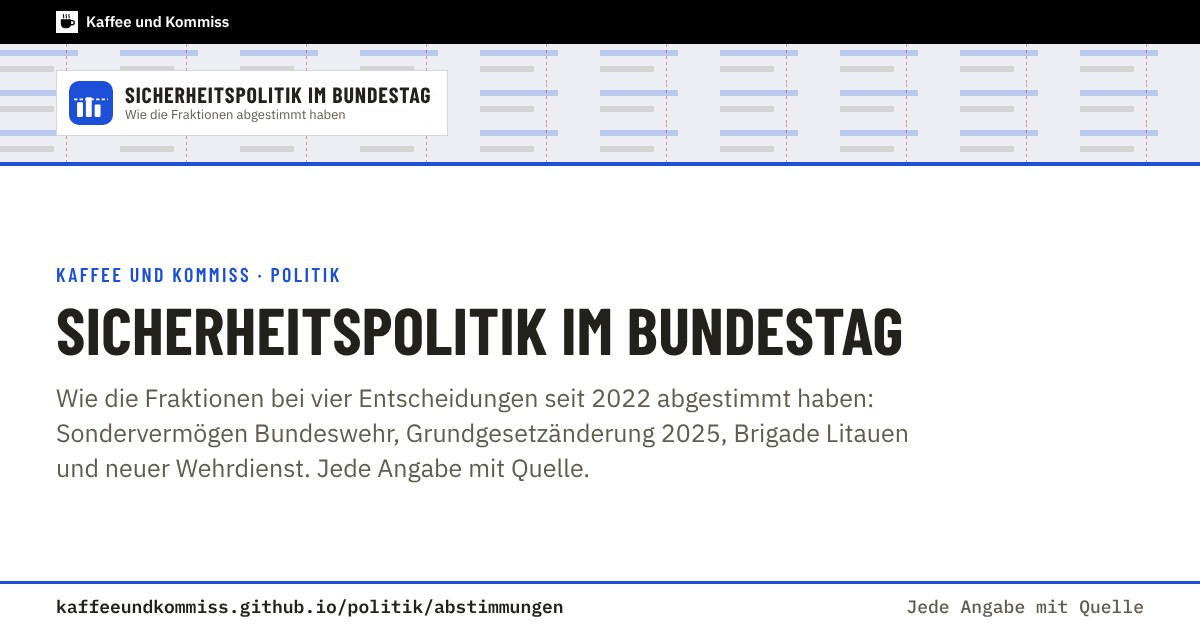
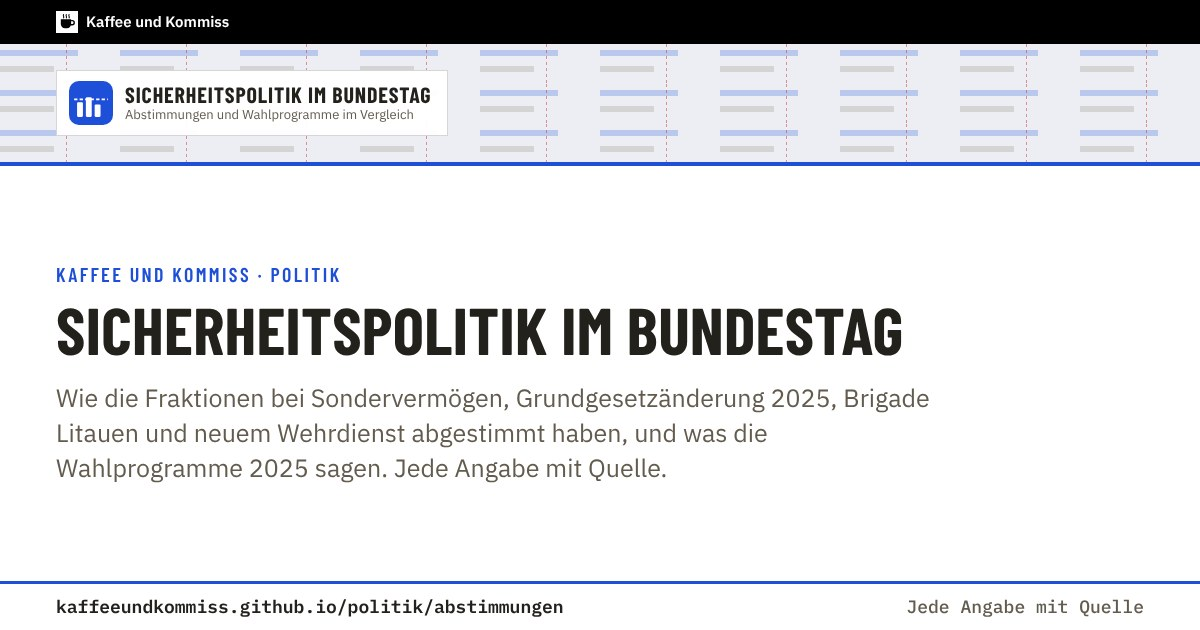
Politik: Wahlprogramme 2025 im Wortlaut auf der Seite Sicherheitspolitik im Bundestag
Abschnitt #programme mit wörtlichen Auszügen aus den Programmen von
CDU/CSU, AfD, SPD, Grünen, Linke und FDP zu Wehrpflicht,
Verteidigungsausgaben und NATO, je mit Abgleich (tagesschau, Dlf, LpB BW
u. a.), Kasten zu Entwicklungen seit der Wahl, Quellen q21-q35.
Parteienreihenfolge der Übersicht nach Zweitstimmen 2025.

Claude-Session: https://claude.ai/code/session_01AuP7hHuBsEzNoN93syrafp

Changed region(s): [[0.0308, 0.6032, 0.7708, 0.7841], [0.0925, 0.1508, 0.2775, 0.2111], [0.3083, 0.181, 0.3392, 0.2111]]

diff --git a/politik/abstimmungen/index.html b/politik/abstimmungen/index.html
@@ -4,21 +4,21 @@
 <meta charset="utf-8">
 <meta name="viewport" content="width=device-width, initial-scale=1">
 <title>Sicherheitspolitik im Bundestag · Kaffee und Kommiss</title>
-<meta name="description" content="Wie die Fraktionen im Bundestag bei vier sicherheitspolitischen Entscheidungen seit 2022 abgestimmt haben: Sondervermögen Bundeswehr, Grundgesetzänderung 2025, Brigade Litauen und neuer Wehrdienst. Jede Angabe mit Quelle.">
+<meta name="description" content="Wie die Fraktionen im Bundestag bei vier sicherheitspolitischen Entscheidungen seit 2022 abgestimmt haben: Sondervermögen Bundeswehr, Grundgesetzänderung 2025, Brigade Litauen und neuer Wehrdienst; dazu die Wahlprogramme 2025 im Wortlaut. Jede Angabe mit Quelle.">
 <link rel="canonical" href="https://kaffeeundkommiss.github.io/politik/abstimmungen/">
 <meta property="og:type" content="website">
 <meta property="og:locale" content="de_DE">
 <meta property="og:site_name" content="Kaffee und Kommiss">
 <meta property="og:title" content="Sicherheitspolitik im Bundestag · Kaffee und Kommiss">
-<meta property="og:description" content="Wie die Fraktionen bei vier sicherheitspolitischen Entscheidungen seit 2022 abgestimmt haben, jede Angabe mit Quelle.">
+<meta property="og:description" content="Wie die Fraktionen bei vier sicherheitspolitischen Entscheidungen seit 2022 abgestimmt haben und was die Wahlprogramme 2025 sagen, jede Angabe mit Quelle.">
 <meta property="og:url" content="https://kaffeeundkommiss.github.io/politik/abstimmungen/">
 <!-- Vorschau für Linkvorschauen, erzeugt mit werkzeuge/vorschau.js -->
-<meta property="og:image" content="https://kaffeeundkommiss.github.io/vorschau/abstimmungen.jpg?v=945861f0">
+<meta property="og:image" content="https://kaffeeundkommiss.github.io/vorschau/abstimmungen.jpg?v=cbaee471">
 <meta property="og:image:width" content="1200">
 <meta property="og:image:height" content="630">
 <meta property="og:image:alt" content="Sicherheitspolitik im Bundestag: Kaffee und Kommiss">
 <meta name="twitter:card" content="summary_large_image">
-<meta name="twitter:image" content="https://kaffeeundkommiss.github.io/vorschau/abstimmungen.jpg?v=945861f0">
+<meta name="twitter:image" content="https://kaffeeundkommiss.github.io/vorschau/abstimmungen.jpg?v=cbaee471">
 <link rel="icon" href="../../icons/politik.svg" type="image/svg+xml">
 <link rel="icon" href="../../favicon-32.png" type="image/png" sizes="32x32">
 <link rel="apple-touch-icon" sizes="180x180" href="../../apple-touch-icon.png?v=2">
@@ -43,7 +43,7 @@
       <img class="logo" src="../../icons/politik.svg" alt="" width="44" height="44">
       <div>
         <div class="kk-name">Sicherheitspolitik im Bundestag</div>
-        <div class="kk-unter">Wie die Fraktionen abgestimmt haben</div>
+        <div class="kk-unter">Abstimmungen und Wahlprogramme im Vergleich</div>
       </div>
     </a>
   </div>
@@ -52,7 +52,7 @@
 <main>
   <div class="kicker">Bereich Politik · Bundestag seit 2022</div>
   <h1>Wie haben die Fraktionen abgestimmt?</h1>
-  <p class="lead">Vier Entscheidungen des Bundestages zur Sicherheitspolitik seit 2022 und wie die Fraktionen und Gruppen dabei gestimmt haben. Die Seite zeigt, wie abgestimmt wurde, nicht warum. Die Begründungen stehen in den Reden, die in den Plenarprotokollen des Bundestages veröffentlicht sind.</p>
+  <p class="lead">Vier Entscheidungen des Bundestages zur Sicherheitspolitik seit 2022 und wie die Fraktionen und Gruppen dabei gestimmt haben. Danach: was die Parteien in ihren Wahlprogrammen 2025 zu Wehrpflicht, Verteidigungsausgaben und NATO schreiben, im Wortlaut. Die Seite zeigt Abstimmungen und Programmtexte, sie bewertet sie nicht.</p>
 
   <nav class="inhalt" aria-label="Inhalt dieser Seite">
     <a href="#uebersicht">Übersicht</a>
@@ -61,6 +61,7 @@
     <a href="#litauen">Litauen 2025</a>
     <a href="#wehrdienst">Wehrdienst 2025</a>
     <a href="#lesen">So ist die Tabelle zu lesen</a>
+    <a href="#programme">Wahlprogramme 2025</a>
     <a href="#quellen">Quellen</a>
   </nav>
 
@@ -68,12 +69,12 @@
   <p class="legende">Angegeben ist, wie die Mehrheit einer Fraktion oder Gruppe gestimmt hat. Einzelne Abweichungen stehen unten bei der jeweiligen Entscheidung. „—“ heißt: nicht im Bundestag vertreten oder damals noch nicht gegründet.</p>
   <div class="tab">
   <table class="matrix">
-    <thead><tr><th scope="col">Entscheidung</th><th scope="col">CDU/CSU</th><th scope="col">SPD</th><th scope="col">Grüne</th><th scope="col">FDP</th><th scope="col">AfD</th><th scope="col">Linke</th><th scope="col">BSW</th></tr></thead>
+    <thead><tr><th scope="col">Entscheidung</th><th scope="col">CDU/CSU</th><th scope="col">AfD</th><th scope="col">SPD</th><th scope="col">Grüne</th><th scope="col">Linke</th><th scope="col">FDP</th><th scope="col">BSW</th></tr></thead>
     <tbody>
-      <tr><th scope="row"><a href="#gg2022">03.06.2022 · Grundgesetz Art. 87a, Sondervermögen Bundeswehr</a></th><td class="v">Ja</td><td class="v">Ja</td><td class="v">Ja</td><td class="v">Ja</td><td class="v">geteilt</td><td class="v">Nein</td><td class="v nicht">—</td></tr>
-      <tr><th scope="row"><a href="#gg2025">18.03.2025 · Grundgesetzänderung, Verteidigungsausgaben und Schuldenbremse</a></th><td class="v">Ja</td><td class="v">Ja</td><td class="v">Ja</td><td class="v">Nein</td><td class="v">Nein</td><td class="v">Nein</td><td class="v">Nein</td></tr>
-      <tr><th scope="row"><a href="#litauen">31.01.2025 · Abkommen mit Litauen, Stationierung der Brigade</a></th><td class="v">Ja</td><td class="v">Ja</td><td class="v">Ja</td><td class="v">Ja</td><td class="v">Enth.</td><td class="v">Nein</td><td class="v">Nein</td></tr>
-      <tr><th scope="row"><a href="#wehrdienst">05.12.2025 · Wehrdienst-Modernisierungsgesetz</a></th><td class="v">Ja</td><td class="v">Ja</td><td class="v">Nein</td><td class="v nicht">—</td><td class="v">Nein</td><td class="v">Nein</td><td class="v nicht">—</td></tr>
+      <tr><th scope="row"><a href="#gg2022">03.06.2022 · Grundgesetz Art. 87a, Sondervermögen Bundeswehr</a></th><td class="v">Ja</td><td class="v">geteilt</td><td class="v">Ja</td><td class="v">Ja</td><td class="v">Nein</td><td class="v">Ja</td><td class="v nicht">—</td></tr>
+      <tr><th scope="row"><a href="#gg2025">18.03.2025 · Grundgesetzänderung, Verteidigungsausgaben und Schuldenbremse</a></th><td class="v">Ja</td><td class="v">Nein</td><td class="v">Ja</td><td class="v">Ja</td><td class="v">Nein</td><td class="v">Nein</td><td class="v">Nein</td></tr>
+      <tr><th scope="row"><a href="#litauen">31.01.2025 · Abkommen mit Litauen, Stationierung der Brigade</a></th><td class="v">Ja</td><td class="v">Enth.</td><td class="v">Ja</td><td class="v">Ja</td><td class="v">Nein</td><td class="v">Ja</td><td class="v">Nein</td></tr>
+      <tr><th scope="row"><a href="#wehrdienst">05.12.2025 · Wehrdienst-Modernisierungsgesetz</a></th><td class="v">Ja</td><td class="v">Nein</td><td class="v">Ja</td><td class="v">Nein</td><td class="v">Nein</td><td class="v nicht">—</td><td class="v nicht">—</td></tr>
     </tbody>
   </table>
   </div>
@@ -133,6 +134,70 @@
     <li><strong>Auswahl.</strong> Vier Entscheidungen seit 2022 mit Bezug zu den Themen dieser Website. Abstimmungen über Auslandseinsätze stehen im Abschnitt <a href="https://kaffeeundkommiss.github.io/sicherheitspolitik/bundeswehr/#parlament">„Parlamentsarmee“</a>.</li>
   </ul>
 
+  <h2 id="programme">Was die Wahlprogramme 2025 sagen</h2>
+  <p>Wörtliche Auszüge aus den Programmen der Parteien zur Bundestagswahl am 23. Februar 2025, zu drei Fragen: Wehrpflicht, Höhe der Verteidigungsausgaben und Haltung zur NATO. Die Auszüge geben den Wortlaut wieder, nicht eine Bewertung. Reihenfolge der Parteien nach dem Zweitstimmenergebnis 2025. Neben jedem Zitat steht eine unabhängige Zusammenfassung, die dieselbe Position nennt.</p>
+  <p class="legende">Fundstelle: Das jeweilige Programm als PDF. Seitenzahlen fehlen, weil die PDFs nur als Textauszug gelesen werden konnten; jedes Zitat lässt sich mit der Suchfunktion im PDF finden. Silbentrennungen am Zeilenende sind aufgelöst.</p>
+
+  <section class="thema" aria-labelledby="p-wehrpflicht">
+    <h3 id="p-wehrpflicht">Wehrpflicht und Wehrdienst</h3>
+    <dl class="zitate">
+      <dt>CDU/CSU</dt>
+      <dd><blockquote>„Wir führen eine aufwachsende Wehrpflicht ein. Das ist notwendig für Frieden und Sicherheit unseres Landes.“</blockquote><span class="fund">Abschnitt „Für Freiheit, Frieden und Sicherheit“<span class="q"><a href="#q21">21</a></span>; Abgleich<span class="q"><a href="#q27">27</a>,<a href="#q28">28</a></span></span></dd>
+      <dt>AfD</dt>
+      <dd><blockquote>„Daher wollen wir die Wehrpflicht wieder einsetzen. Diese beinhaltet gemäß aktueller Gesetzeslage auch den Ersatzdienst.“</blockquote><span class="fund">Programm<span class="q"><a href="#q25">25</a></span>; Abgleich<span class="q"><a href="#q27">27</a>,<a href="#q29">29</a></span></span></dd>
+      <dt>SPD</dt>
+      <dd><blockquote>„Der neue Wehrdienst soll auf Freiwilligkeit basieren und sich dabei am Bedarf der Bundeswehr orientieren. Es müssen zügig die Grundlagen für eine Wehrerfassung geschaffen werden.“</blockquote><span class="fund">Programm<span class="q"><a href="#q22">22</a></span>; Abgleich<span class="q"><a href="#q28">28</a></span> <span class="eine">ein Abgleich</span></span></dd>
+      <dt>Grüne</dt>
+      <dd><blockquote>„Statt den aus guten Gründen seit 2011 ausgesetzten allgemeinen Grundwehrdienst wieder einzuführen, wollen wir den freiwilligen Wehrdienst und die Reserve für eine breite Zielgruppe attraktiver machen […].“</blockquote><span class="fund">Abschnitt „Für eine moderne, verteidigungsfähige Bundeswehr“<span class="q"><a href="#q23">23</a></span>; Abgleich<span class="q"><a href="#q27">27</a>,<a href="#q28">28</a></span></span></dd>
+      <dt>Linke</dt>
+      <dd><blockquote>„Wir stellen uns gegen eine Militarisierung der Gesellschaft: keine Wiedereinführung der Wehrpflicht […].“</blockquote><span class="fund">Programm<span class="q"><a href="#q26">26</a></span>; Abgleich<span class="q"><a href="#q28">28</a>,<a href="#q30">30</a></span></span></dd>
+      <dt>FDP</dt>
+      <dd><blockquote>„Die Wiedereinsetzung der allgemeinen Wehrpflicht lehnen wir ab.“</blockquote><span class="fund">Abschnitt „Verteidigungsfähigkeit ausbauen – für eine starke Bundeswehr“<span class="q"><a href="#q24">24</a></span>; Abgleich<span class="q"><a href="#q28">28</a></span> <span class="eine">ein Abgleich</span></span></dd>
+    </dl>
+    <div class="kasten">
+      <h3>Seit der Wahl</h3>
+      <p><strong>CDU/CSU und SPD:</strong> Das im Dezember 2025 beschlossene Gesetz setzt zunächst auf Freiwilligkeit; eine verpflichtende Heranziehung kann der Bundestag später beschließen (siehe <a href="#wehrdienst">oben</a>).<span class="q"><a href="#q13">13</a>,<a href="#q14">14</a></span></p>
+      <p><strong>AfD:</strong> Die Führung der Bundestagsfraktion entschied im Oktober 2025, die Forderung nach der Wehrpflicht bis zu einer Regierungsbeteiligung der AfD und dem Ende des Ukraine-Kriegs nicht mehr zu erheben.<span class="q"><a href="#q33">33</a></span> <span class="eine">eine Quelle</span> Einen vorbereiteten Antrag zur Wiedereinführung der Wehrpflicht brachte die Fraktion nicht ein.<span class="q"><a href="#q34">34</a>,<a href="#q35">35</a></span> Beim Wehrdienstgesetz stimmte die AfD mit Nein (siehe <a href="#wehrdienst">oben</a>).</p>
+    </div>
+  </section>
+
+  <section class="thema" aria-labelledby="p-ausgaben">
+    <h3 id="p-ausgaben">Höhe der Verteidigungsausgaben</h3>
+    <dl class="zitate">
+      <dt>CDU/CSU</dt>
+      <dd><blockquote>„Wir verstehen das aktuelle Zwei-Prozent-Ziel der NATO als Untergrenze unserer Verteidigungsausgaben, um eine vollständig einsatzbereite Bundeswehr mit einer personellen und materiellen Vollausstattung zu ermöglichen.“</blockquote><span class="fund">Abschnitt „Mehr Verantwortung in der NATO übernehmen“<span class="q"><a href="#q21">21</a></span>; Abgleich<span class="q"><a href="#q27">27</a>,<a href="#q28">28</a></span></span></dd>
+      <dt>AfD</dt>
+      <dd><blockquote>„Damit dem Hauptauftrag der Landes- und Bündnisverteidigung wieder Rechnung getragen werden kann, muss unsere Bundeswehr nicht nur finanziell gut ausgestattet sein, sondern ihr muss auch die Einsatzbereitschaft insbesondere bei Material und Personal zurückgegeben werden.“</blockquote><span class="fund">Programm<span class="q"><a href="#q25">25</a></span>; Abgleich<span class="q"><a href="#q28">28</a></span> <span class="eine">ein Abgleich</span>. Eine Zielmarke in Prozent des BIP fand sich in den gelesenen Auszügen nicht.</span></dd>
+      <dt>SPD</dt>
+      <dd><blockquote>„Wir setzen uns daher auch zukünftig für eine nachhaltige Verteidigungsfinanzierung von mindestens zwei Prozent des BIP ein.“</blockquote><span class="fund">Programm<span class="q"><a href="#q22">22</a></span>; Abgleich<span class="q"><a href="#q27">27</a>,<a href="#q28">28</a></span></span></dd>
+      <dt>Grüne</dt>
+      <dd><blockquote>„Dafür braucht es verlässliche Finanzierung mit einem Verteidigungsetat, der dauerhaft die in der NATO vereinbarten und auch national definierten Ziele und Bedarfe erfüllt und dafür dauerhaft deutlich mehr als 2 Prozent des Bruttoinlandsprodukts in unsere Sicherheit und Verteidigungsfähigkeit investiert.“</blockquote><span class="fund">Programm<span class="q"><a href="#q23">23</a></span>; Abgleich<span class="q"><a href="#q27">27</a>,<a href="#q28">28</a></span></span></dd>
+      <dt>Linke</dt>
+      <dd><blockquote>„Das Aufrüstungsziel der NATO auf 2 Prozent des BIP oder noch mehr lehnen wir ab.“</blockquote><span class="fund">Programm<span class="q"><a href="#q26">26</a></span>; Abgleich<span class="q"><a href="#q27">27</a>,<a href="#q32">32</a></span></span></dd>
+      <dt>FDP</dt>
+      <dd><blockquote>„Hierzu gehört, dass Deutschland mindestens das 2%-Ziel der NATO erfüllt. Wenn die NATO höhere Ziele vereinbart, werden wir auch diese erfüllen und noch mehr in unsere Sicherheit investieren.“</blockquote><span class="fund">Programm<span class="q"><a href="#q24">24</a></span>; Abgleich<span class="q"><a href="#q28">28</a></span> <span class="eine">ein Abgleich</span></span></dd>
+    </dl>
+  </section>
+
+  <section class="thema" aria-labelledby="p-nato">
+    <h3 id="p-nato">Haltung zur NATO</h3>
+    <dl class="zitate">
+      <dt>CDU/CSU</dt>
+      <dd><blockquote>„Wir stehen ohne Wenn und Aber zur transatlantischen Verteidigungsallianz.“</blockquote><span class="fund">Abschnitt „Mehr Verantwortung in der NATO übernehmen“<span class="q"><a href="#q21">21</a></span>; Abgleich<span class="q"><a href="#q27">27</a></span> <span class="eine">ein Abgleich</span></span></dd>
+      <dt>AfD</dt>
+      <dd><blockquote>„Bis zum Aufbau eines unabhängigen und handlungsfähigen europäischen Militärbündnisses bleiben die Mitgliedschaft in der NATO sowie eine aktive Rolle Deutschlands in der Organisation für Sicherheit und Zusammenarbeit in Europa (OSZE) zentrale Elemente unserer Sicherheitsstrategie.“</blockquote><span class="fund">Kapitel „Äußere Sicherheit“<span class="q"><a href="#q25">25</a></span>; Abgleich<span class="q"><a href="#q29">29</a>,<a href="#q31">31</a></span></span></dd>
+      <dt>SPD</dt>
+      <dd><blockquote>„Wir werden den europäischen Pfeiler in der NATO stärken, indem wir Investitionen abgestimmt tätigen und unsere Streitkräfte partnerschaftlich organisieren.“</blockquote><span class="fund">Programm<span class="q"><a href="#q22">22</a></span>; Abgleich<span class="q"><a href="#q28">28</a></span> <span class="eine">ein Abgleich</span></span></dd>
+      <dt>Grüne</dt>
+      <dd><blockquote>„Als fest in die NATO integrierte Armee dient sie der Wahrung von Frieden und Stabilität.“</blockquote><span class="fund">Abschnitt „Für eine moderne, verteidigungsfähige Bundeswehr“<span class="q"><a href="#q23">23</a></span>; Abgleich<span class="q"><a href="#q28">28</a></span> <span class="eine">ein Abgleich</span></span></dd>
+      <dt>Linke</dt>
+      <dd><blockquote>„Unser Ziel ist eine Sicherheitsarchitektur in Europa, die auf den Prinzipien der friedlichen Koexistenz und den Vereinbarungen der KSZE beruht und alle Länder des Kontinents einbezieht. Eine solche Sicherheitsarchitektur macht die NATO überflüssig […].“</blockquote><span class="fund">Programm<span class="q"><a href="#q26">26</a></span>; Abgleich<span class="q"><a href="#q30">30</a>,<a href="#q32">32</a></span></span></dd>
+      <dt>FDP</dt>
+      <dd><blockquote>„Wir Freie Demokraten stehen uneingeschränkt zur NATO als das erfolgreichste Verteidigungsbündnis der Welt und als Garant für unsere Sicherheit.“</blockquote><span class="fund">Programm<span class="q"><a href="#q24">24</a></span>; Abgleich<span class="q"><a href="#q28">28</a></span> <span class="eine">ein Abgleich</span></span></dd>
+    </dl>
+    <p class="stand">Die FDP ist seit 2025 nicht mehr im Bundestag vertreten; ihr Programm steht hier, weil sie bei drei der vier Abstimmungen oben noch Fraktion war. „[…]“ markiert Auslassungen.</p>
+  </section>
+
   <h2>Weiter</h2>
   <div class="bezug-liste">
     <a href="https://kaffeeundkommiss.github.io/sicherheitspolitik/bundeswehr/#parlament"><b>Sicherheitspolitik: Parlamentsarmee</b><span>Wie ein Auslandseinsatz beschlossen wird, mit Abstimmungen von 1993 bis 2023.</span></a>
@@ -163,6 +228,21 @@
     <li id="q18">Deutscher Bundestag: Gelegentlich uneinheitlich: Namentliche Abstimmungen im Bundestag. Textarchiv. <span class="stand">2026; Suchauszug.</span> <a href="https://www.bundestag.de/dokumente/textarchiv/2026/kw30-namentliche-abstimmung-1198088">bundestag.de</a></li>
     <li id="q19">tagesschau.de: Bundestag billigt Grundgesetzänderung für Finanzpaket. <span class="stand">18.03.2025; Suchauszug.</span> <a href="https://www.tagesschau.de/inland/bundestag-finanzpaket-100.html">tagesschau.de</a></li>
     <li id="q20">Deutscher Bundestag: Glossar, Namentliche Abstimmung. <span class="stand">Ohne Datum; Suchauszug.</span> <a href="https://www.bundestag.de/services/glossar/nam_abst-245502">bundestag.de</a></li>
+    <li id="q21">CDU und CSU: Wahlprogramm zur Bundestagswahl 2025, Langfassung (PDF). <span class="stand">2025; als Textauszug gelesen.</span> <a href="https://www.cdu.de/app/uploads/2025/01/km_btw_2025_wahlprogramm_langfassung_ansicht.pdf">cdu.de</a></li>
+    <li id="q22">SPD: Regierungsprogramm der SPD für die Bundestagswahl 2025 (PDF). <span class="stand">2025; als Textauszug gelesen.</span> <a href="https://www.spd.de/fileadmin/Dokumente/Beschluesse/Programm/2025_SPD_Regierungsprogramm.pdf">spd.de</a></li>
+    <li id="q23">Bündnis 90/Die Grünen: Regierungsprogramm 2025 „Zusammen wachsen“ (PDF). <span class="stand">2025; als Textauszug gelesen.</span> <a href="https://cms.gruene.de/uploads/assets/Regierungsprogramm_DIGITAL_DINA5.pdf">gruene.de</a></li>
+    <li id="q24">FDP: Das Wahlprogramm der FDP zur Bundestagswahl 2025 (PDF). <span class="stand">Dezember 2024; als Textauszug gelesen.</span> <a href="https://www.fdp.de/sites/default/files/2024-12/fdp-wahlprogramm_2025.pdf">fdp.de</a></li>
+    <li id="q25">AfD: Zeit für Deutschland. Programm der Alternative für Deutschland für die Wahl zum 21. Deutschen Bundestag (PDF), beschlossen auf dem Bundesparteitag am 11./12.01.2025 in Riesa. <span class="stand">Februar 2025; als Textauszug gelesen.</span> <a href="https://www.afd.de/wp-content/uploads/2025/02/AfD_Bundestagswahlprogramm2025_web.pdf">afd.de</a></li>
+    <li id="q26">Die Linke: Wahlprogramm zur Bundestagswahl 2025, Langfassung (PDF). <span class="stand">2025; als Textauszug gelesen.</span> <a href="https://www.die-linke.de/fileadmin/user_upload/Wahlprogramm_Langfassung_Linke-BTW25_01.pdf">die-linke.de</a></li>
+    <li id="q27">tagesschau.de: Bundestagswahl 2025: Was zur Außenpolitik in den Wahlprogrammen steht. <span class="stand">2025, Datum nicht geprüft.</span> <a href="https://www.tagesschau.de/inland/bundestagswahl/programmvergleich/wahlprogramme-aussenpolitik-sicherheit-frieden-100.html">tagesschau.de</a></li>
+    <li id="q28">Deutschlandfunk: Bundestagswahl 2025 – Wahlprogramme: Außenpolitik. <span class="stand">2025, Datum nicht geprüft.</span> <a href="https://www.deutschlandfunk.de/bundestagswahl-2025-wahlprogramme-aussenpolitik-100.html">deutschlandfunk.de</a></li>
+    <li id="q29">Landeszentrale für politische Bildung Baden-Württemberg: Wahlprogramm der AfD 2025. <span class="stand">2025; Suchauszug.</span> <a href="https://www.bundestagswahl-bw.de/wahlprogramm-afd">bundestagswahl-bw.de</a></li>
+    <li id="q30">Landeszentrale für politische Bildung Baden-Württemberg: Wahlprogramm Die Linke zur Bundestagswahl 2025. <span class="stand">2025; Suchauszug.</span> <a href="https://www.bundestagswahl-bw.de/wahlprogramm-die-linke">bundestagswahl-bw.de</a></li>
+    <li id="q31">zdfheute: AfD-Wahlprogramm: Vater, Mutter, Kind – und der EU-Ausstieg. <span class="stand">Zum Parteitag am 11./12.01.2025; Suchauszug.</span> <a href="https://www.zdfheute.de/politik/deutschland/afd-parteitag-riesa-wahlprogramm-100.html">zdfheute.de</a></li>
+    <li id="q32">Ohne Rüstung Leben: Bundestagswahl 2025: Was steht in den Wahlprogrammen der Parteien zu Frieden, Verteidigung und Atomwaffen? <span class="stand">2025; Suchauszug. Herausgeber ist eine friedenspolitische Initiative.</span> <a href="https://www.ohne-ruestung-leben.de/nachrichten/article/bundestagswahl-2025-wahlprogramme-abruestung-ruestungsexport-friedenspolitik-atomwaffen-675.html">ohne-ruestung-leben.de</a></li>
+    <li id="q33">WELT: Görlitzer Kreistag: „Landkreis des Friedens“ – AfD-Chef Chrupalla stimmt für Verbot von Bundeswehr-Werbung. <span class="stand">2025, Datum nicht geprüft; Suchauszug.</span> <a href="https://welt.de/politik/deutschland/article693a7553470feae1f4278857/goerlitzer-kreistag-landkreis-des-friedens-afd-chef-chrupalla-stimmt-fuer-verbot-von-bundeswehr-werbung.html">welt.de</a></li>
+    <li id="q34">zdfheute: Wie die AfD beim Thema Wehrpflicht laviert. <span class="stand">Oktober 2025, Datum nicht geprüft; Suchauszug.</span> <a href="https://www.zdfheute.de/politik/afd-wehrpflicht-freiwilligkeit-100.html">zdfheute.de</a></li>
+    <li id="q35">Verfassungsblog: Vom drohenden Unrechtsstaat (zur Wehrpflicht-Position der AfD). <span class="stand">2025, Datum nicht geprüft; Suchauszug.</span> <a href="https://verfassungsblog.de/afd-wehrpflicht-unrechtsstaat">verfassungsblog.de</a></li>
   </ol>
   </section>
 </main>

diff --git a/politik/index.html b/politik/index.html
@@ -119,7 +119,7 @@
     <h2 class="gruppe" id="g-bezug">Bezüge zu den anderen Bereichen</h2>
     <div class="bezug-liste">
       <a href="https://kaffeeundkommiss.github.io/politik/wahlen/"><b>Politik: Wahlen und Koalitionen</b><span>Wie der Bundestag gewählt wird, was die 5-%-Hürde bedeutet, und welche Koalitionen es in Bund und Ländern schon gab.</span></a>
-      <a href="https://kaffeeundkommiss.github.io/politik/abstimmungen/"><b>Politik: Sicherheitspolitik im Bundestag</b><span>Wie die Fraktionen bei Sondervermögen, Grundgesetzänderung 2025, Brigade Litauen und neuem Wehrdienst abgestimmt haben.</span></a>
+      <a href="https://kaffeeundkommiss.github.io/politik/abstimmungen/"><b>Politik: Sicherheitspolitik im Bundestag</b><span>Wie die Fraktionen bei Sondervermögen, Grundgesetzänderung 2025, Brigade Litauen und neuem Wehrdienst abgestimmt haben, und was die Wahlprogramme 2025 dazu sagen.</span></a>
       <a href="https://kaffeeundkommiss.github.io/sicherheitspolitik/bundeswehr/#parlament"><b>Sicherheitspolitik: Bundestag und Auslandseinsätze</b><span>Über bewaffnete Auslandseinsätze entscheidet der Bundestag. Wie ein Mandat entsteht und wie abgestimmt wurde, zeigt der Abschnitt „Parlamentsarmee“.</span></a>
       <a href="https://kaffeeundkommiss.github.io/sicherheitspolitik/bundeswehr/"><b>Sicherheitspolitik: Die Bundeswehr seit 1955</b><span>Wie sich der Auftrag der Bundeswehr nach 1990 und seit 2022 verändert hat, und alle Verteidigungsminister seit 1955.</span></a>
       <a href="https://kaffeeundkommiss.github.io/geschichte/einigungskriege/"><b>Geschichte: Wie das Kaiserreich entstand</b><span>Die Einigungskriege 1864–1871, an deren Ende 1871 das Deutsche Kaiserreich ausgerufen wurde.</span></a>

diff --git a/politik/abstimmungen/abstimmungen.css b/politik/abstimmungen/abstimmungen.css
@@ -10,3 +10,10 @@
 .entscheid .datum{font:600 13px var(--kk-mono);color:var(--kk-grau);margin:0 0 6px}
 .zahlen-tab td{font-family:var(--kk-mono);font-size:13px}
 .zahlen-tab td:first-child{font-family:var(--kk-text);font-size:15px}
+/* Wahlprogramme: Zitate je Partei, gleiche Gestaltung für alle Parteien */
+.thema{margin-top:18px}
+.zitate{margin:8px 0 0}
+.zitate dt{font:700 19px/1.2 var(--kk-titel);letter-spacing:.02em;margin:16px 0 4px}
+.zitate dd{margin:0;padding:0 0 10px 12px;border-left:3px solid var(--kk-linie)}
+.zitate blockquote{margin:0 0 4px;font-size:16px}
+.zitate .fund{display:block;font-size:13px;color:var(--kk-grau)}
